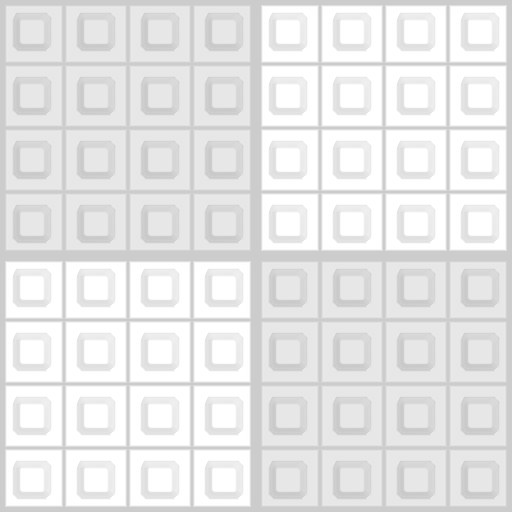
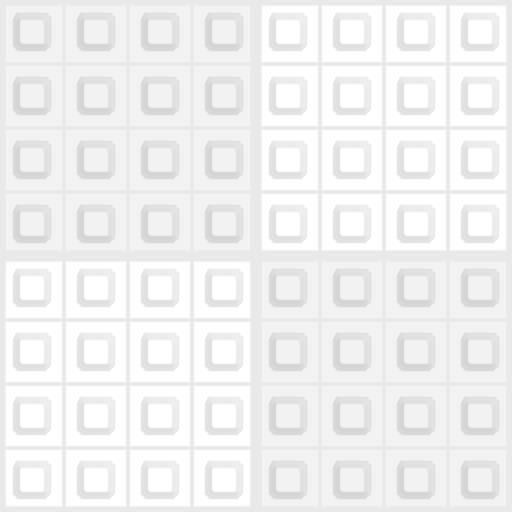
Home base grid overlay re-baked: a dark square darkens the ground 5% (ids to come)
Claude-Session: https://claude.ai/code/session_01RhYZKufmn4hjtDk2Dg1oTx

diff --git a/tools/bake_stud_grid.py b/tools/bake_stud_grid.py
@@ -9,8 +9,8 @@ Transparency 0) by Shared/BakedStuds.
   StudGridWall.png       walls and caps: the 2x2 grid, 2-stud studs (StudStyle TileScale 2)
 
 All 512 px for an 8-stud tile. Re-run (and re-upload) if those transparencies change.
-Only the home base wears these (QM, Nov 8); its ground's checker squares are SQUARES (0.8) as
-dark as the grid's own, its grid lines as they were.
+Only the home base wears these (QM, Nov 8); on its ground the whole grid overlay (squares and
+lines) is scaled so a dark square darkens the ground by GROUND_DARK (5%).
 """
 
 import os
@@ -21,13 +21,14 @@ T = os.path.join(HERE, "..", "assets", "terrain")
 SIZE, TILE = 512, 8
 CHECKER_T = 0.8  # Config.BaseplateTransparency
 GROUND_T, WALL_T = 0.5, 0.4  # Config.StudStyle GroundTransparency, Transparency
-SQUARES = 0.8  # the home base ground's dark checker squares, x their contrast (QM, Nov 8: ~20% less)
+GROUND_DARK = 0.05  # how much a dark square darkens the home base ground (QM, Nov 8: 5%, was ~9%)
 
 
 def alpha(path, resample, square=None):
     a = Image.open(path).convert("RGBA").getchannel("A")
-    if square is not None:  # (the dark squares' own alpha: lines keep theirs)
-        a = a.point(lambda v: round(v * SQUARES) if v == square else v)
+    if square is not None:  # (the whole overlay, so the dark squares darken by GROUND_DARK)
+        k = GROUND_DARK / (square / 255 * (1 - CHECKER_T))
+        a = a.point(lambda v: round(v * k))
     return a.resize((SIZE, SIZE), resample)
 
 
